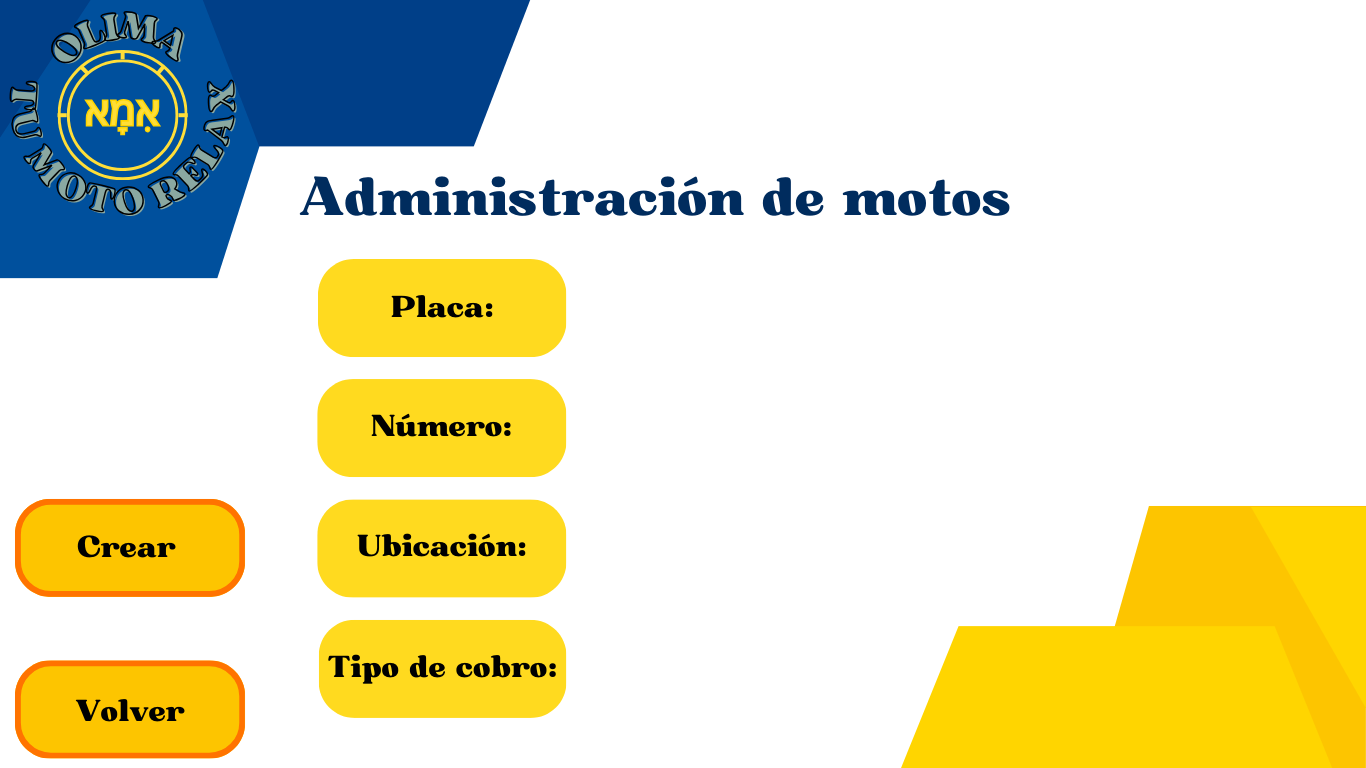
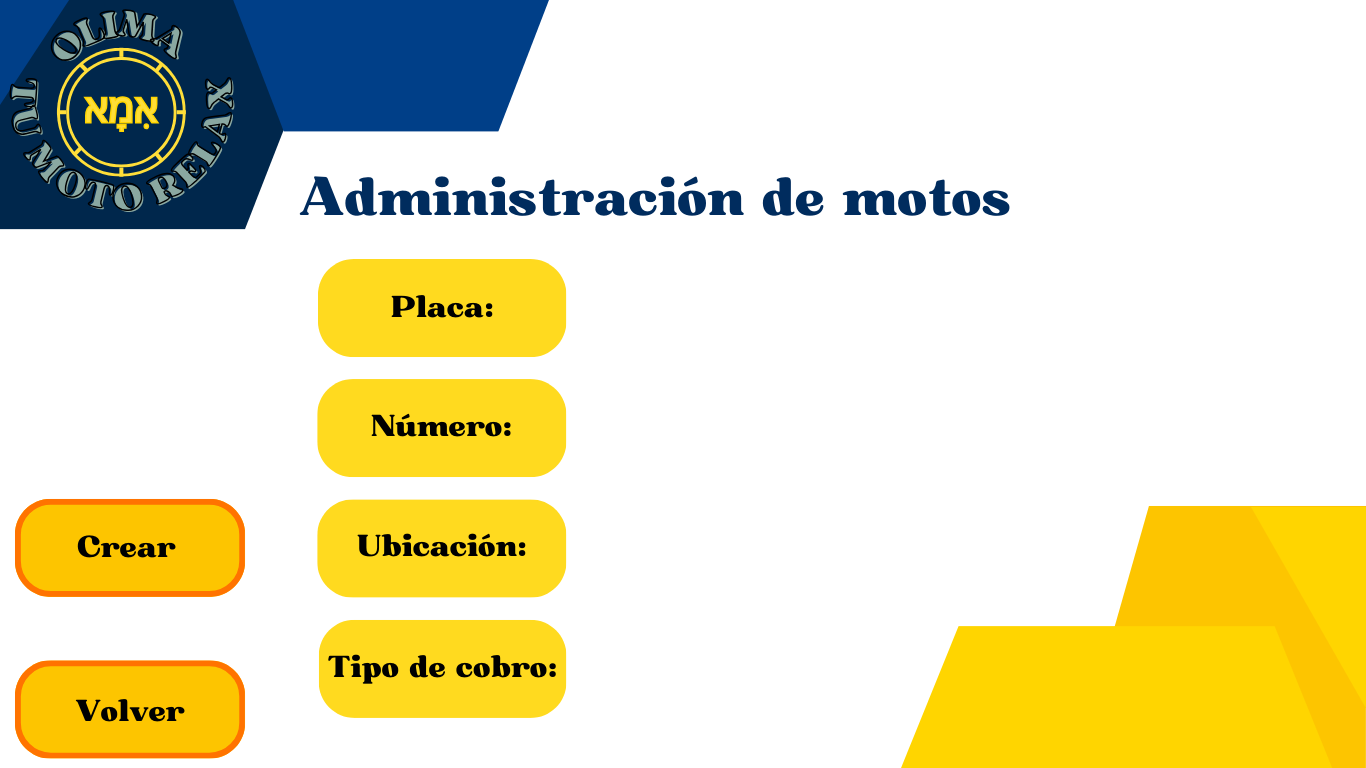
Se mejoran las imagenes

Changed region(s): [[0.0, 0.0, 0.3997, 0.375]]

diff --git a/src/ventanaprovisional/PanelPago.java b/src/ventanaprovisional/PanelPago.java
@@ -14,7 +14,7 @@ public class PanelPago extends JPanel {
 	 */
 	private static final long serialVersionUID = 1L;
 	private JButton btnAceptar, btnVolver;
-	private JLabel lblFondo, lblHora, lblMinutos, lblPlaca, lblCelular, lblPrecio;
+	private JLabel lblFondo, lblHora, lblMinutos, lblPlaca, lblCelular, lblPrecio, lblTipoDeCobro;
 	private JComboBox<String> jcomboPrecio;
 	private String[] precio = { "Efectivo", "Nequi" };
 
@@ -45,6 +45,7 @@ public class PanelPago extends JPanel {
 		lblMinutos = new JLabel("Minutos");
 		lblPlaca = new JLabel("Placa");
 		lblPrecio = new JLabel("Precio");
+		lblTipoDeCobro = new JLabel("Cobro");
 
 		btnAceptar.setBounds(108, 419, 196, 45);
 		btnVolver.setBounds(258, 419, 196, 45);
@@ -55,6 +56,7 @@ public class PanelPago extends JPanel {
 		lblCelular.setBounds(200, 50, 150, 50);
 		lblPlaca.setBounds(500, 50, 150, 50);
 		lblPlaca.setBounds(600, 50, 150, 50);
+		lblTipoDeCobro.setBounds(700, 50, 150, 50);
 		btnAceptar.setOpaque(true);
 
 		jcomboPrecio = new JComboBox<>(precio);
@@ -62,6 +64,7 @@ public class PanelPago extends JPanel {
 
 		add(lblFondo);
 
+		add(lblTipoDeCobro);
 		add(lblPrecio);
 		add(lblCelular);
 		add(lblPlaca);
@@ -71,6 +74,14 @@ public class PanelPago extends JPanel {
 		add(btnAceptar);
 		add(btnVolver);
 
+	}
+
+	public JLabel getLblTipoDeCobro() {
+		return lblTipoDeCobro;
+	}
+
+	public void setLblTipoDeCobro(JLabel lblTipoDeCobro) {
+		this.lblTipoDeCobro = lblTipoDeCobro;
 	}
 
 	public JLabel getLblPrecio() {

diff --git a/src/ventanaprovisional/PanelInicial.java b/src/ventanaprovisional/PanelInicial.java
@@ -27,9 +27,9 @@ public class PanelInicial extends JPanel {
 	public void inicializarComponentes() {
 		ImageIcon icono = new ImageIcon(getClass().getResource("/imagenes/Inicio.png"));
 		Image imagen = icono.getImage();
-		Image imagenEscalada = imagen.getScaledInstance(1280, 720, Image.SCALE_SMOOTH);
+		Image imagenEscalada = imagen.getScaledInstance(1280, 685, Image.SCALE_SMOOTH);
 		lblFondo = new JLabel(new ImageIcon(imagenEscalada));
-		lblFondo.setBounds(0, 0, 1280, 720);
+		lblFondo.setBounds(0, 0, 1280, 685);
 
 		btnIngresarAdmin = new JButton("");
 		btnIngresarMostrar = new JButton("");

diff --git a/src/controlador/Controller.java b/src/controlador/Controller.java
@@ -8,7 +8,6 @@ import java.time.LocalDateTime;
 import java.time.format.DateTimeFormatter;
 import java.util.ArrayList;
 
-
 import javax.swing.table.DefaultTableModel;
 
 import modelo.ContadorDiario;
@@ -121,6 +120,7 @@ public class Controller implements ActionListener {
 			vp.getPp().getLblHora().setText(duracion.toHoursPart() + "");
 			vp.getPp().getLblMinutos().setText(duracion.toMinutesPart() + "");
 			vp.getPp().getLblPrecio().setText(m.pago(actual) + "");
+			vp.getPp().getLblTipoDeCobro().setText(actual.getTipoDeCobro());
 
 			vp.cambiarPanel(vp.getPp());
 
